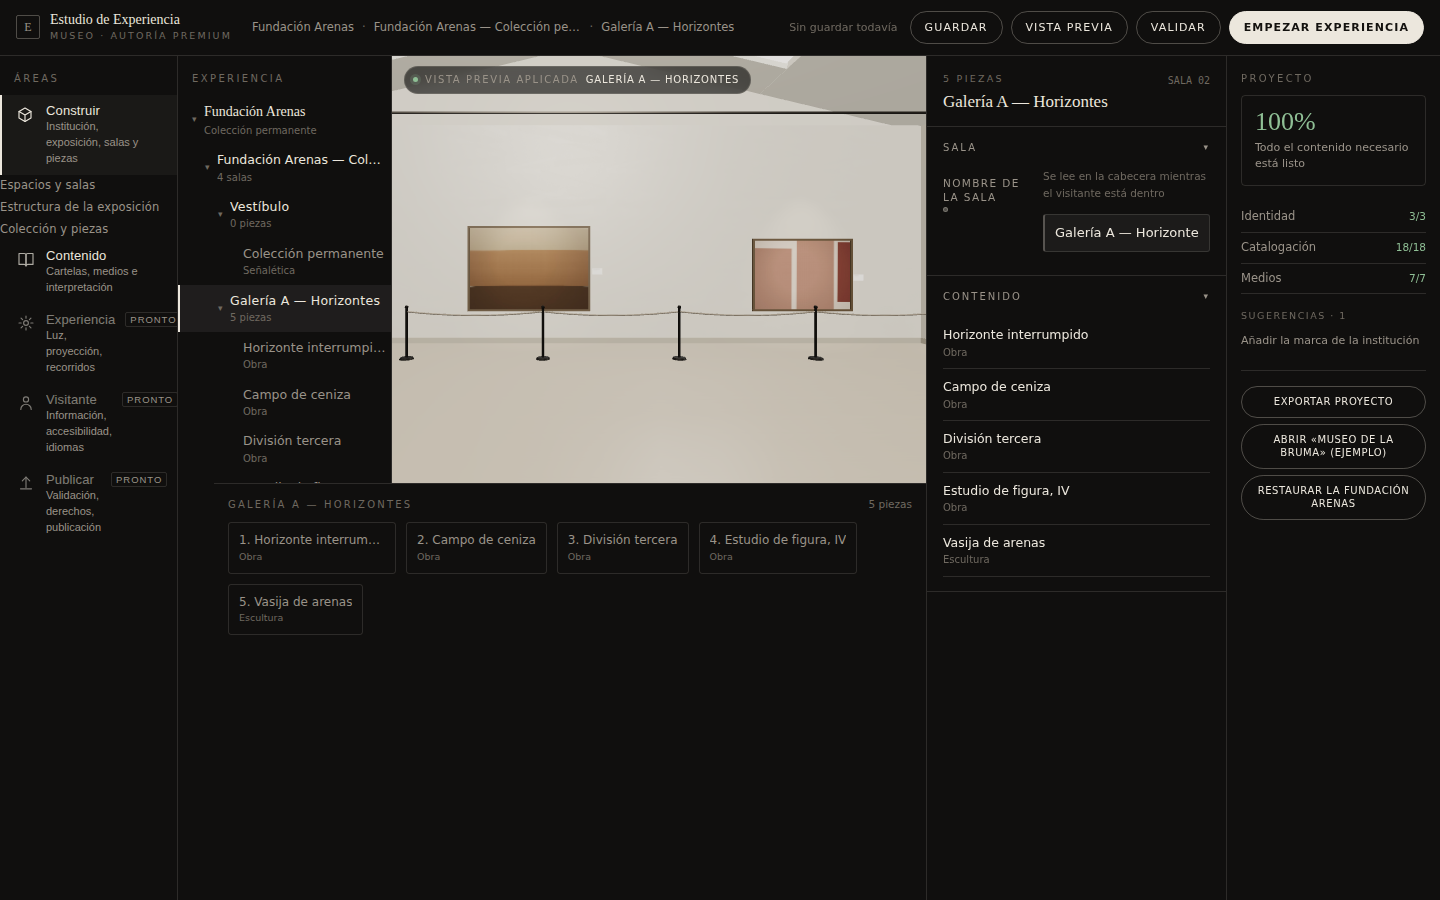
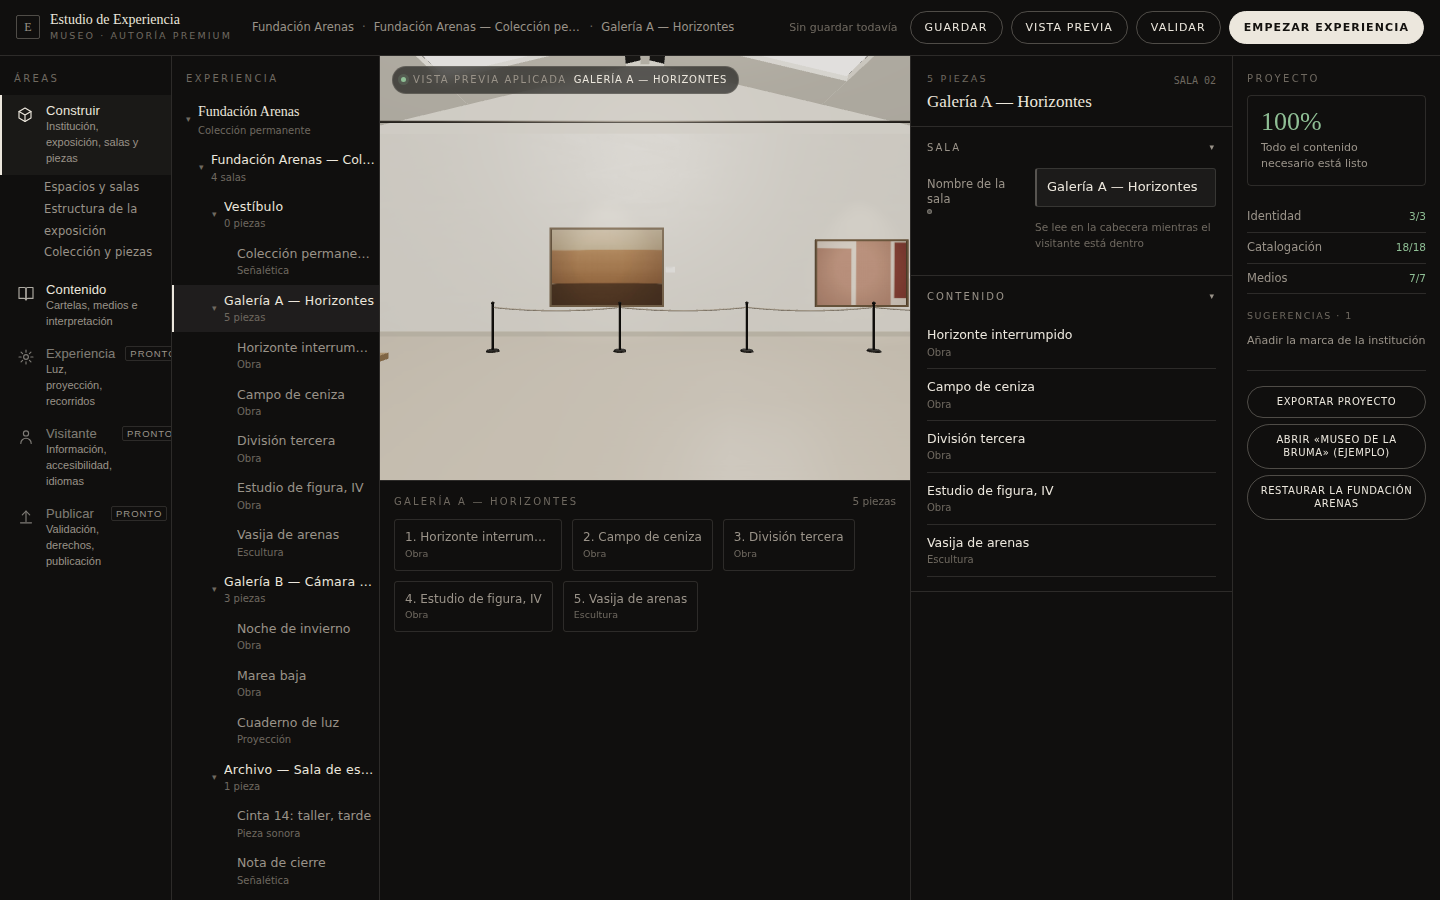
fix(museum): the contextual editor, set as a form rather than as a stack of headings
Gap 2 of 3 against the approved reference: editor maturity.

Every field label was uppercase at 0.13em tracking — a heading treatment
applied to form labels. "Nombre de la institución" took three lines of an
88px column where the reference fits "Título", "Artista", "Año" on one
each, and the panel read as a column of headings rather than as a record
you can scan. Labels are words now; tracked caps still mark the group
headers, which is the job they are good at.

The hint took the first row of the field column, pushing each control down
one row while its label stayed put. Every labelled field was a line out of
register with the thing it labelled, so the two-column form bought nothing.
Rows are assigned explicitly: label and control share row one, the hint
sits under the control where guidance belongs.

Two more caught in the capture:

- the "Pronto" chip sat in a third rail column, which made it the element
  nearest the edge — it was cut mid-word. It goes under the text now, where
  it has the whole column.
- a slot's heading was forced through the form's 96px label column, so
  "Imagen de la obra" broke across two lines beside a format hint stranded
  in the next column. It is a short heading; it stacks.

Columns rebalanced again so the editor got the width back (322px) without
the preview paying for it.

Smoke 12/12, no console errors.

PRODUCT APPROVAL: PENDING

Claude-Session: https://claude.ai/code/session_018wa7wg6wyBCfu7nkaPigxt

diff --git a/labs/immersive-worlds/authoring/studio/studio.css b/labs/immersive-worlds/authoring/studio/studio.css
@@ -29,10 +29,10 @@
   --st-bad: #e08a80;
 
   --st-top: 56px;
-  --st-rail: 178px;
-  --st-left: 214px;
-  --st-editor: 300px;
-  --st-val: 214px;
+  --st-rail: 172px;
+  --st-left: 208px;
+  --st-editor: 322px;
+  --st-val: 208px;
 }
 
 /* The Museum, docked — and letterboxed to the shape the visitor will actually
@@ -204,7 +204,7 @@ body[data-studio="on"] .iw-topbar { display: none; }
   letter-spacing: .01em;
 }
 .st-dom {
-  display: grid; grid-template-columns: 20px 1fr auto; align-items: start;
+  display: grid; grid-template-columns: 20px 1fr; align-items: start;
   gap: 10px; width: 100%; padding: 8px 14px; border: 0; background: none;
   text-align: left; color: var(--st-ink); cursor: pointer;
   border-left: 2px solid transparent;
@@ -220,9 +220,10 @@ body[data-studio="on"] .iw-topbar { display: none; }
   color: var(--st-dim); margin-top: 1px;
 }
 .st-dom em {
-  font-style: normal; font-size: 9.5px; letter-spacing: .1em; text-transform: uppercase;
-  color: var(--st-dim); border: 1px solid var(--st-line); border-radius: 2px;
-  padding: 1px 4px; white-space: nowrap;
+  display: inline-block; margin-top: 5px;
+  font-style: normal; font-size: 9px; letter-spacing: .1em; text-transform: uppercase;
+  color: var(--st-faint); border: 1px solid var(--st-line); border-radius: 2px;
+  padding: 1px 5px; white-space: nowrap;
 }
 .st-dom:hover:not(:disabled) { background: var(--st-raise); }
 .st-dom:hover:not(:disabled) svg { opacity: 1; }
@@ -300,9 +301,15 @@ h2 {
 .st-gb { padding: 0 16px 18px; }
 
 .st-f { display: block; margin: 0 0 12px; }
+/* Field labels are set as words, not as small caps.
+   Uppercase at 0.13em tracking is a heading treatment, and applying it to every
+   field made "Nombre de la institución" occupy three lines of an 88px column
+   while the reference fits "Título", "Artista", "Año" on one each. Tracked caps
+   still mark the group headers, where they say "new section" — which is the job
+   they are good at. */
 .st-l {
   display: flex; align-items: baseline; gap: 7px;
-  font-size: 10.5px; letter-spacing: 0.13em; text-transform: uppercase;
+  font-size: 11.5px; letter-spacing: 0.005em;
   color: var(--st-dim); margin-bottom: 4px;
 }
 /* "This value came from the Museum's own record, not from you." */
@@ -426,7 +433,7 @@ h2 {
 @media (min-width: 1241px) {
   .st-f {
     display: grid;
-    grid-template-columns: 88px 1fr;
+    grid-template-columns: 96px 1fr;
     align-items: start;
     gap: 2px 12px;
     margin: 0 0 9px;
@@ -439,13 +446,19 @@ h2 {
     gap: 3px;
     line-height: 1.25;
   }
-  .st-h { grid-column: 2; margin: 0 0 3px; }
+  /* The hint used to take the first row of the field column, which pushed the
+     control down one row while its label stayed put — so every labelled field
+     was a line out of register with the thing it labelled, and the two-column
+     form bought nothing. Rows are assigned explicitly: label and control share
+     row 1, the hint sits under the control where guidance belongs. */
+  .st-l { grid-row: 1; }
   #st .st-f input:not([type=file]),
   #st .st-f textarea,
-  #st .st-f select { grid-column: 2; }
+  #st .st-f select { grid-column: 2; grid-row: 1; }
+  .st-h { grid-column: 2; grid-row: 2; margin: 3px 0 0; }
   .st-gb { padding: 0 16px 14px; }
-  .st-facts { grid-template-columns: 88px 1fr; gap: 3px 12px; }
-  .st-slothead { display: grid; grid-template-columns: 88px 1fr; gap: 2px 12px; margin-bottom: 8px; }
+  .st-facts { grid-template-columns: 96px 1fr; gap: 3px 12px; }
+  .st-slothead { display: flex; align-items: baseline; gap: 8px; flex-wrap: wrap; margin-bottom: 8px; }
   .st-slothead .st-l { padding-top: 0; }
 
   /* In an 88 px column the words "del registro" wrap onto three lines and make

diff --git a/labs/immersive-worlds/authoring/studio/studio-shell.js b/labs/immersive-worlds/authoring/studio/studio-shell.js
@@ -422,8 +422,10 @@ export class StudioShell {
                 aria-current="${on ? 'true' : 'false'}"
                 title="${esc(d.hint)}${d.ready ? '' : ' · en preparación'}">
                 <svg viewBox="0 0 20 20" aria-hidden="true" focusable="false">${ICON[d.id]}</svg>
-                <span><b>${esc(d.label)}</b><i>${esc(d.hint)}</i></span>
-                ${d.ready ? '' : '<em>Pronto</em>'}
+                <span>
+                  <b>${esc(d.label)}</b><i>${esc(d.hint)}</i>
+                  ${d.ready ? '' : '<em>Pronto</em>'}
+                </span>
               </button>
               ${on && d.areas ? `<ul class="st-areas">${
   d.areas.map((a) => `<li>${esc(a)}</li>`).join('')}</ul>` : ''}
